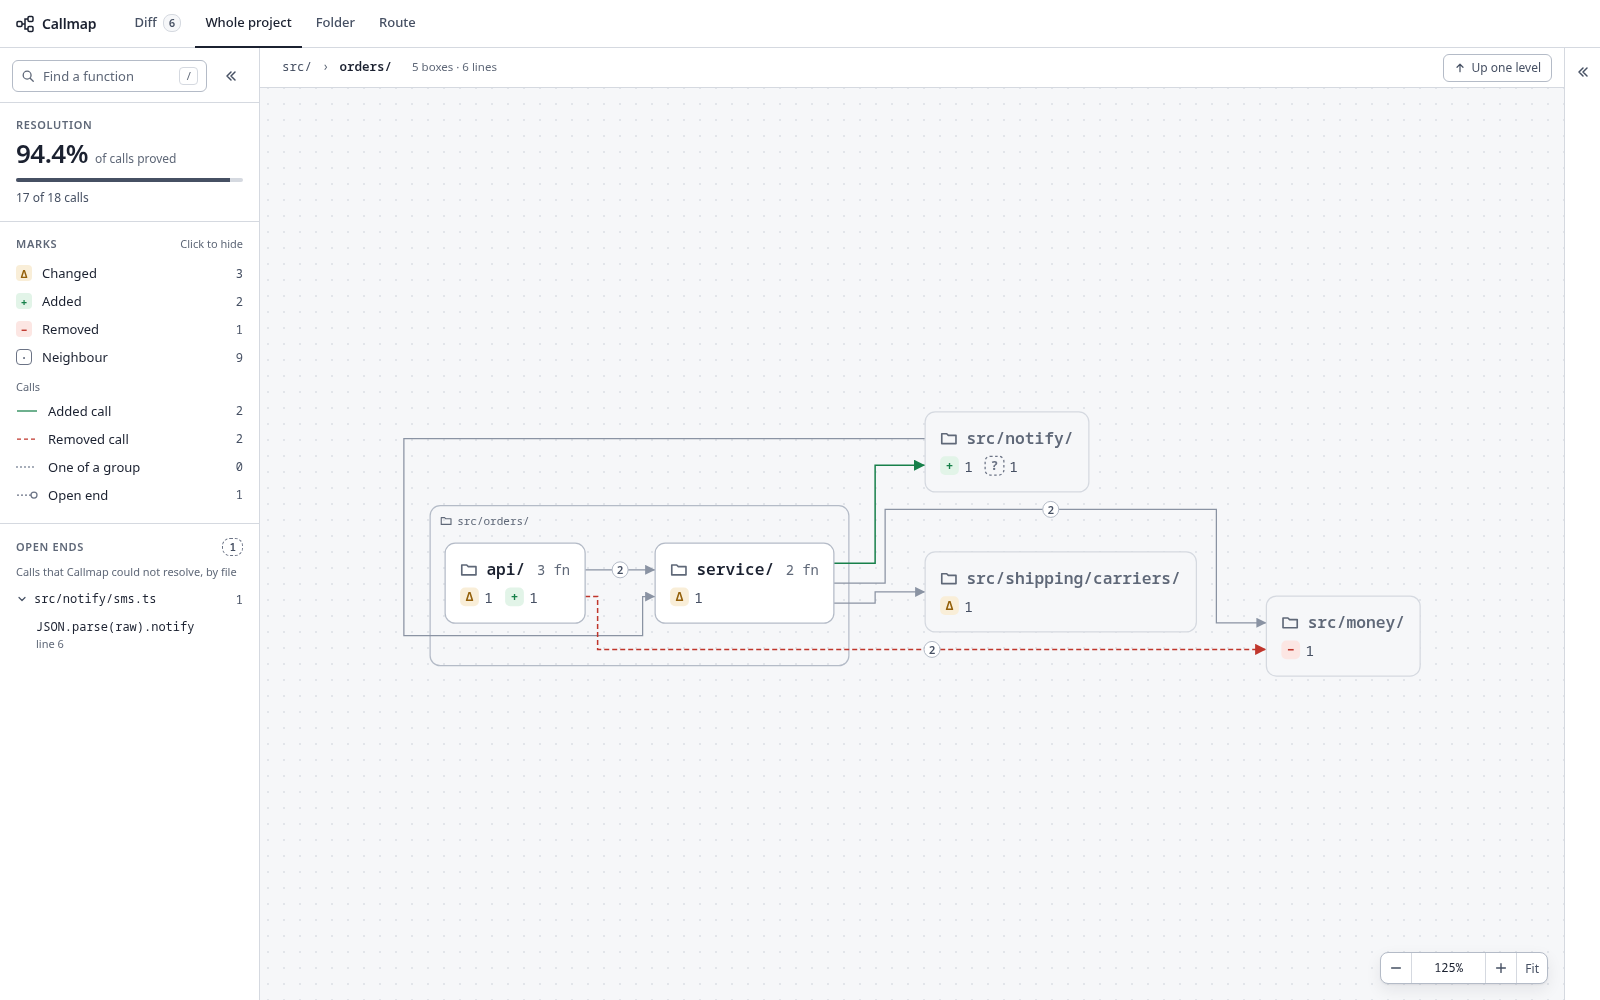
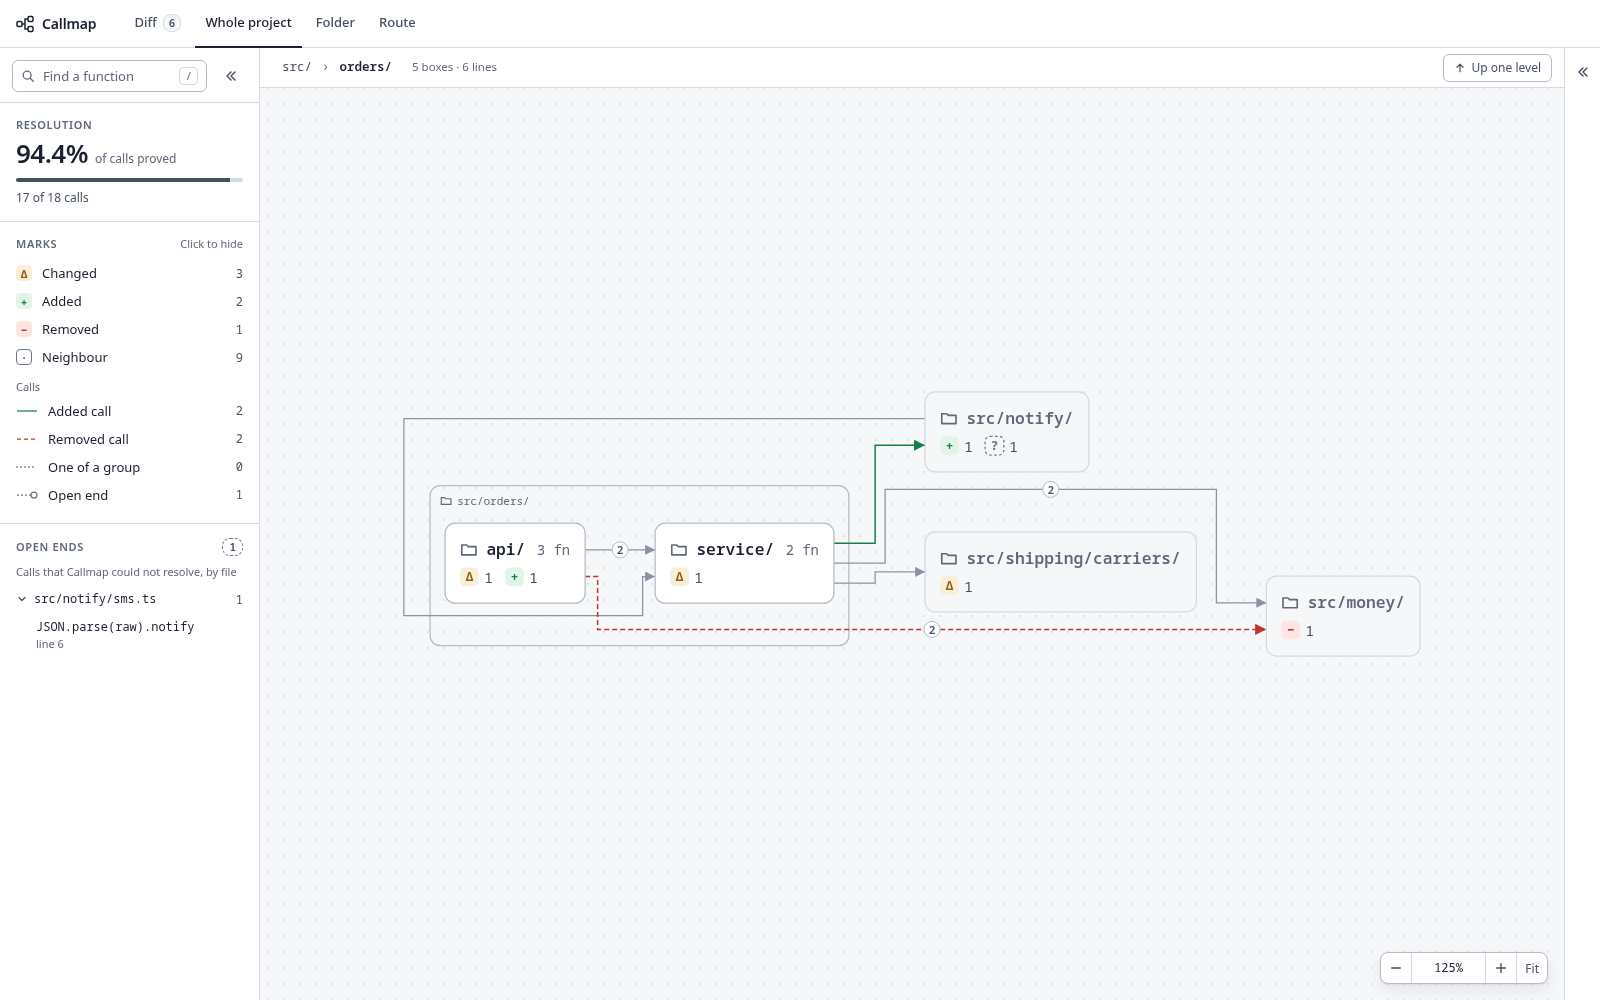
cli: each README screenshot shows every box of its drawing in full
Before each shot, the command zooms out while the drawing does not fit the graph, and stops with an error if it leaves the Read band. Then it drags the drawing to the middle of the graph. The Diff shot collapses the left panel, because its drawing fits the graph with that panel open only out of the Read band.

Changed region(s): [[0.25, 0.496, 0.875, 0.651], [0.5312, 0.403, 0.6875, 0.496]]

diff --git a/packages/cli/test-browser/readme-screenshots.ts b/packages/cli/test-browser/readme-screenshots.ts
@@ -18,10 +18,17 @@ interface Shot {
   readonly view: 'Diff' | 'Whole project';
   readonly level?: string;
   readonly selected?: string;
+  readonly leftPanel?: 'collapsed';
 }
 
 const SHOTS: readonly Shot[] = [
-  { file: 'diff-view', fixture: 'review', view: 'Diff', selected: 'src/cart.ts#receipt' },
+  {
+    file: 'diff-view',
+    fixture: 'review',
+    view: 'Diff',
+    selected: 'src/cart.ts#receipt',
+    leftPanel: 'collapsed',
+  },
   { file: 'whole-project-top-level', fixture: 'levels', view: 'Whole project' },
   {
     file: 'whole-project-src-orders',
@@ -64,6 +71,69 @@ const settled = async (page: Page): Promise<void> => {
   );
 };
 
+interface Rect {
+  readonly left: number;
+  readonly top: number;
+  readonly width: number;
+  readonly height: number;
+}
+
+interface Room {
+  readonly graph: Rect;
+  readonly drawing: Rect;
+  readonly band: string;
+}
+
+const MARGIN = 24;
+
+const roomOf = (page: Page): Promise<Room> =>
+  page.evaluate(() => {
+    const rectOf = (selector: string): Rect => {
+      const rect = document.querySelector(selector)?.getBoundingClientRect();
+      if (rect === undefined) throw new Error(`the page has no ${selector}`);
+      return { left: rect.left, top: rect.top, width: rect.width, height: rect.height };
+    };
+    const parts = [
+      ...document.querySelectorAll('#graph .box, #graph .frame, #graph [data-from], #graph .label'),
+    ]
+      .map((part) => part.getBoundingClientRect())
+      .filter((rect) => rect.width > 0 || rect.height > 0);
+    const left = Math.min(...parts.map((rect) => rect.left));
+    const top = Math.min(...parts.map((rect) => rect.top));
+    return {
+      graph: rectOf('#graph'),
+      drawing: {
+        left,
+        top,
+        width: Math.max(...parts.map((rect) => rect.right)) - left,
+        height: Math.max(...parts.map((rect) => rect.bottom)) - top,
+      },
+      band: document.querySelector('#graph .drawing')?.getAttribute('data-band') ?? '',
+    };
+  });
+
+const fits = ({ graph, drawing }: Room): boolean =>
+  drawing.width + 2 * MARGIN <= graph.width && drawing.height + 2 * MARGIN <= graph.height;
+
+const bringDrawingIntoView = async (page: Page): Promise<void> => {
+  let room = await roomOf(page);
+  while (!fits(room)) {
+    await page.getByRole('button', { name: 'Zoom out' }).click();
+    room = await roomOf(page);
+    if (room.band !== 'read')
+      throw new Error(`the drawing fits only out of the Read band: ${JSON.stringify(room)}`);
+  }
+  const { graph, drawing } = room;
+  const dx = graph.left + (graph.width - drawing.width) / 2 - drawing.left;
+  const dy = graph.top + (graph.height - drawing.height) / 2 - drawing.top;
+  const x = graph.left + MARGIN / 2;
+  const y = graph.top + graph.height - MARGIN / 2;
+  await page.mouse.move(x, y);
+  await page.mouse.down();
+  await page.mouse.move(x + dx, y + dy, { steps: 4 });
+  await page.mouse.up();
+};
+
 const openShot = async (page: Page, shot: Shot): Promise<void> => {
   await page.getByRole('tab', { name: shot.view, exact: true }).click();
   await settled(page);
@@ -72,6 +142,9 @@ const openShot = async (page: Page, shot: Shot): Promise<void> => {
     await page.locator(`#graph .box[data-box="${box}"]`).click();
     await settled(page);
   }
+  if (shot.leftPanel === 'collapsed')
+    await page.getByRole('button', { name: 'Collapse the left panel', exact: true }).click();
+  await bringDrawingIntoView(page);
 };
 
 const CASES = SHOTS.flatMap((shot) =>
